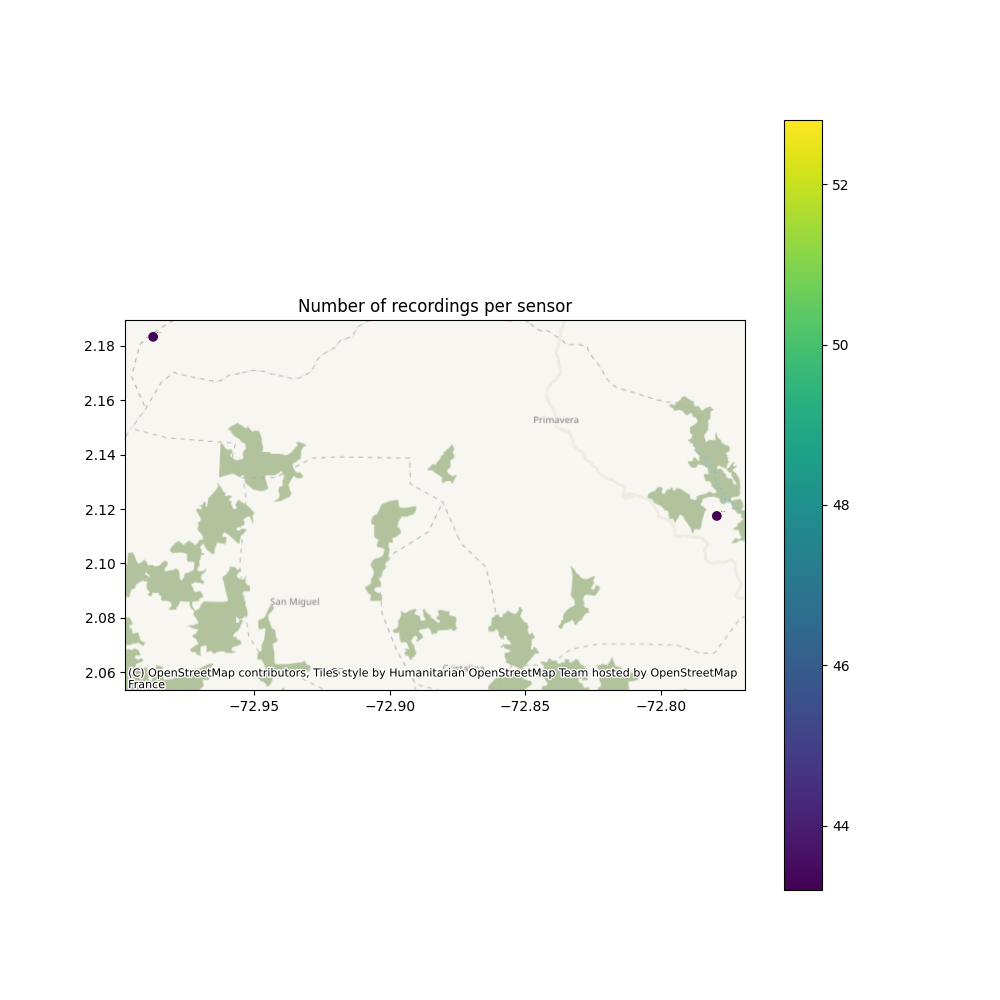
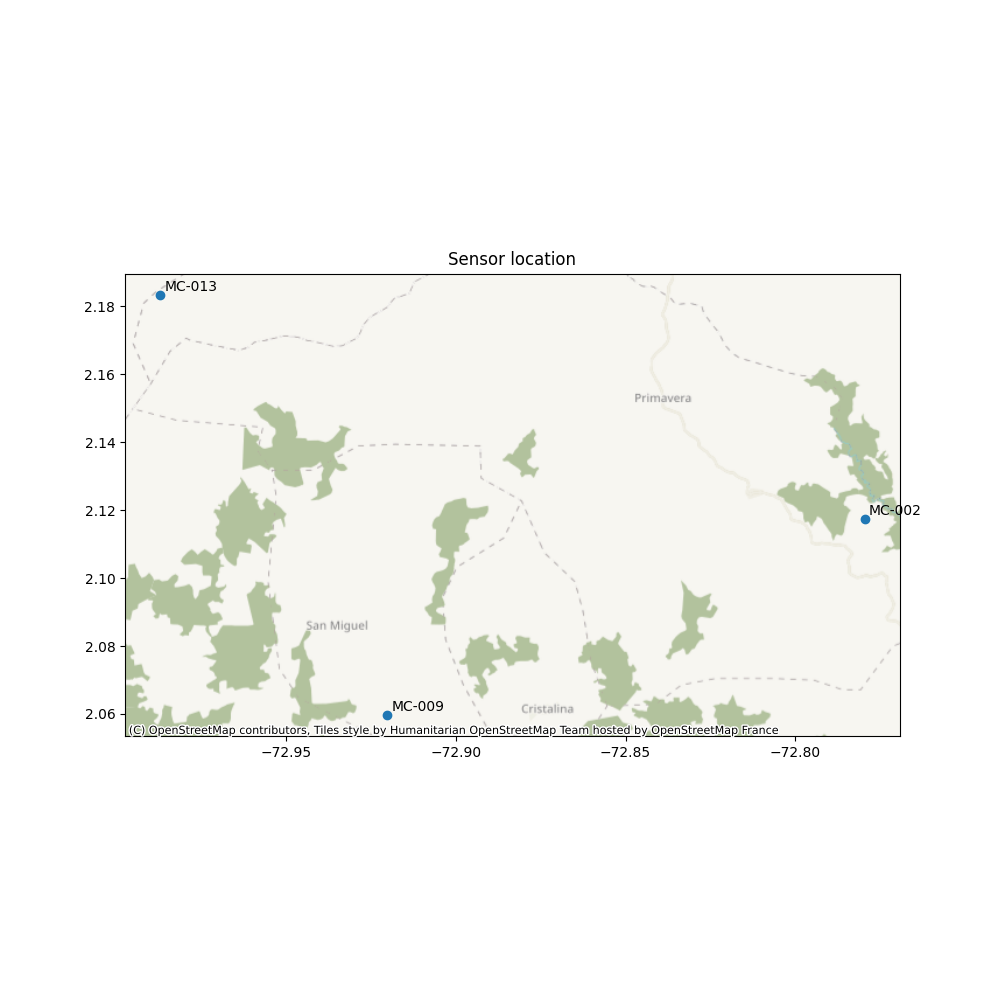
DOC: species detection tutorial

diff --git a/docs/source/tutorial/species_detection.md b/docs/source/tutorial/species_detection.md
@@ -1,3 +1,75 @@
 # Species detection
 
 Here you will learn how use pamflow for automatic species detection and identification in the collected audios, filter for the custom list of target species and store segmetns of the audios having relavant animal vocalizations. 
+
+
+## Table of Contents
+1. [Species detection](#species-detection)
+2. [Segments](#segments)
+3. [Data annotation](#data-annotation)
+
+# Species detection
+Passive acoustic monitoring is a useful tool for assessing species presence. Using **pamflow** you can automatically process all your audiofiles in `audio_root_directory` looking for animal vocalizations. Additionally, **pamflow** will filter for the animals specified in `target_species`.  To get **pamflow** to analyze the audios in search for animal vocalizations run 
+
+```bash
+kedro run --nodes "species_detection_node, filter_observations_node"
+```
+
+this will output two files: `unfiltered_observations@pamDP` and `observations@pamDP` which follow the [observation data format](../data_exchange_format.md#getting-started) and will be stored in `data/output/species_detection/unfiltered_observations.csv` and `data/output/species_detection/observations.csv respectively`. As suggested by their names, `unfiltered_observations@pamDP` stores every detection regardless of the animal detected whereas `observations@pamDP` acconts for detections exclusively for those species in `target_species`. Each detection in both files indicates in which file is the vocalization and in what time of the audio as well as the scientific name of the animal detected and the confidence of the detection. 
+
+| File Name                     | Start Time | End Time | Scientific Name         | ... | Confidence |
+|-------------------------------|------------|----------|-------------------------|-----|------------|
+| MC-002_20240302_073000.wav    | 00:36.0    | 00:39.0  | Amazona farinosa        | ... | 0.168      |
+| MC-002_20240302_073000.wav    | 00:42.0    | 00:45.0  | Cyanocorax violaceus    | ... | 0.285      |
+| MC-009_20240302_073000.wav    | 00:57.0    | 01:00.0  | Pitangus sulphuratus    | ... | 0.142      |
+| MC-013_20240302_073000.wav    | 00:36.0    | 00:39.0  | Ramphastos tucanus      | ... | 0.762      |
+| ...                           | ...        | ...      | ...                     | ... | ...        |
+
+# Segments
+
+Now that the species of interest to the project have been spotted in the audios, the bird experts need to listen to some of these detections to confirm the detection. Instead of having the experts reading the `observations@pamDP` file to select some of the detections, looking for the original audiofiles and going to the exact second where the detection started, you can use **pamflow** to select and store the segment of each audio where there is a relevant detection. By running
+
+```bash
+kedro run --nodes "create_segments_node, create_segments_folder_node"
+```
+
+**pamflow** will randomly select a custom number of segments for each species out of the detections in `observations@pamDP`. The info of the selected segments will be stored in `segments@pandas` and the actual segments are now stored in `data/output/species_detection/segments`. Inside this path, one folder for each species in `target_species` will contain the corresponding audios for the segments.
+
+```plaintext
+data/
+├── input/                        
+└── output/                       
+    ├──  species_detection/                    
+        └── segments/                    
+            ├── Amazona_farinosa/        
+            │   ├── 0.142_MC-009_20240302_073000_57.0_60.0.WAV
+            │   ├── 0.168_MC-009_20240302_073000_36.0_39.0.WAV
+            │   │            ...
+            │   └── 0.762_MC-009_20240302_073000_42.0_45.0.WAV      
+            ├── Cyanocorax_violaceus/    
+            ├── Pitangus_sulphuratus/    
+            └── Ramphastos_tucanus/              
+```
+Each file name follows the structure `<confidence>_<original file name>_<start time>_<end time>.WAV`. 
+
+# Data annotation 
+
+Now the segments are ready for the experts to listen and you want to make them the task of annotation easier for them. Using **panflow** you can automatically generate excel files referencing each of the segments. As soon as an expert determines if a particular detection is accurate or not, she only needs to type true or false on the format. For generating these formats run 
+
+```bash
+kedro run --nodes "create_manual_annotation_formats_node"
+```
+
+This will create one excel file per species in the folder `data/input/manual_annotations`:
+
+
+```plaintext
+data/
+├── input/                        
+│   └── manual_annotations/       # Folder containing manual annotation files for each species
+│       ├── Amazona_farinosa_manual_annotations.xlsx
+│       ├── Cyanocorax_violaceus_manual_annotations.xlsx
+│       ├── Pitangus_sulphuratus_manual_annotations.xlsx
+│       └── Ramphastos_tucanus_manual_annotations.xlsx
+└── output/             
+```

diff --git a/docs/source/tutorial/data_preparation.md b/docs/source/tutorial/data_preparation.md
@@ -35,16 +35,10 @@ To hand your input files over  to **pamflow** you will only need two out of thes
 
 ```plaintext
 conf/
-├── base/                # Base configuration files
-│   ├── catalog/         # Data catalog configuration
-│   ├── parameters/      # Pipeline parameters
-│   ├── logging.yml      # Logging configuration
-│   ├── credentials.yml  # Credentials for external services
-│   └── parameters.yml   # File to inform pamflow where audio_root_directory is located
-├── local/               # Local environment-specific configuration (ignored by Git)
-├── catalog/             # Additional catalog configurations
-├── parameters/          # Additional parameter configurations
-└── credentials/         # Secure credentials (ignored by Git)
+├── base/               
+│   ├── parameters.yml
+│   └──   
+└── 
 ```
 Now open the file `conf/base/parameters.yml` and write the path to the `audio_root_directory`. The external disk provided to you is called `guaviare_project_external_disk` and inside it there is the folder we get familiar with in [previous section](./input_data.md)  called `pam_data_guaviare`. Thus, the `conf/base/parameters.yml` file should look like this now you have changed it.
 
@@ -95,9 +89,15 @@ data/
     └── data_preparation/         # Folder containing outputs of the pipeline data_preparation
         └── media.csv             # `media@pamDP` file
 ```
- As soon as you open it you will find the following information regarding your audio files
+ As soon as you open it you will find the following information regarding your audio files (along with other columns)
 
- ![](../../meta/images/media_visualization.png)
+| mediaID                     | deploymentID | bboxTime | bboxDuration | Scientific Name         | classificationProbability |
+|-----------------------------|--------------|----------|--------------|-------------------------|---------------------------|
+| MC-013_20240302_063000.WAV  | MC-013       | 15.0     | 18.0         | Cyanocorax violaceus    | 0.192                     |
+| MC-013_20240302_083000.WAV  | MC-013       | 0.0      | 3.0          | Ramphastos tucanus      | 0.666                     |
+| MC-013_20240302_083000.WAV  | MC-013       | 3.0      | 6.0          | Ramphastos tucanus      | 0.615                     |
+| MC-013_20240302_083000.WAV  | MC-013       | 6.0      | 9.0          | Ramphastos tucanus      | 0.871                     |
+| ...                         | ...          | ...      | ...          | ...                     | ...                       |
 
  You can check details on the definition of each field [here](../data_exchange_format.md#getting-started).
 

diff --git a/docs/source/tutorial/input_data.md b/docs/source/tutorial/input_data.md
@@ -14,8 +14,12 @@ During the collaboration between Humboldt Institute and local communities at Gua
 
 The resulting audio files are stored in a  external disk that's been delivered to you by  field researchers. The audios are organized as shown bellow
 
-![](../../meta/images/audio_root_directory.png)
-
+```
+/guaviare_project_external_disk/pam_data_guaviare/
+├── MC-002/    # Folder containing audio files from sensor MC-002
+├── MC-009/    # Folder containing audio files from sensor MC-009
+└── MC-013/    # Folder containing audio files from sensor MC-013
+```
 
 Each of the {{number_of_sensors}} subfolders corresponds to one of the installed sensors and stores the 48 one-minute audio files collected by the sensor. These are the audio files from which **pamflow** will help you extract metadata, detected species and audio segments later on the tutorial. This folder containing all the audio files per sensor is called `audio_root_directory`. 
 
@@ -30,7 +34,12 @@ These notes were handed out to you along with the recordings in a format  called
 
 Even though there are many bird species at the monitoring site, the community is only interested in a few of them considered relevant for conservation. Along with the `devices_root_directory` and the `field_deployments_sheet`, you were given the list of relevant species for the project, namely, the `target_species`, which is a `.csv` file with only one column (`scientificName`) and one row per each one of the species considered important  for this particular project. 
 
-
+| Scientific Name          |
+|--------------------------|
+| Amazona farinosa         |
+| Cyanocorax violaceus     |
+| Pitangus sulphuratus     |
+| Ramphastos tucanus       |
 
 
 These are the three only inputs required to run **pamflow**. Now that you understand what they are and their structure let's move on with [next section](./data_preparation.md) to learn how to input them into **pamflow**. 

diff --git a/docs/source/tutorial/quality_control.md b/docs/source/tutorial/quality_control.md
@@ -43,27 +43,20 @@ Both the resulting audio and spectrograms can be found  in `data\output\quality_
 ```plaintext
 data/
 ├── input/                        
-└── output/                       
-    ├── acoustic_indices/         
-    ├── data_preparation/         
-    ├── figures/                  
-    ├── graphical_soundscape/     
+└── output/                          
     ├── quality_control/          
-    │   ├── sensor_location.png   
-    │   ├── sensor_performance.png # Plot showing sensor performance
-    │   ├── sensor_performance_data.csv # Data file for sensor performance
-    │   └── timelapse/            # Timelapse outputs for quality control
+    │   ├── timelapse/            # Timelapse outputs for quality control
     │       ├── MC-002_timelapse_2024-03-02.png  # Spectrogram for sensor MC-002
     │       ├── MC-002_timelapse_2024-03-02.WAV  # Timelapse audio for sensor MC-002
     │       ├── MC-009_timelapse_2024-03-02.png  # Spectrogram for sensor MC-009
     │       ├── MC-009_timelapse_2024-03-02.WAV  # Timelapse audio for sensor MC-009
     │       ├── MC-013_timelapse_2024-03-02.png  # Spectrogram for sensor MC-013
     │       └── MC-013_timelapse_2024-03-02.WAV  # Timelapse audio for sensor MC-013
-    └── species_detection/               
+    └──               
 ```
 
 And the resulting spectrograms should look like this
- ![](../../meta/images/MC-002_timelapse_2024-03-02.png)
+ ![](../../meta/images/MC-009_timelapse_2024-03-02.png)
 
 
 In the [next](./species_detection.md) section you will learn how to use **pamflow** for detecting target species in your audios.

diff --git a/docs/source/tutorial/tutorial.md b/docs/source/tutorial/tutorial.md
@@ -26,7 +26,7 @@ On each of the followig sections you will find relevant information on how to us
 
 
 
-![](../../meta/images/soundscape.png)
+![](../../meta/images/pamflow_intro.jpg)
 
 
 
